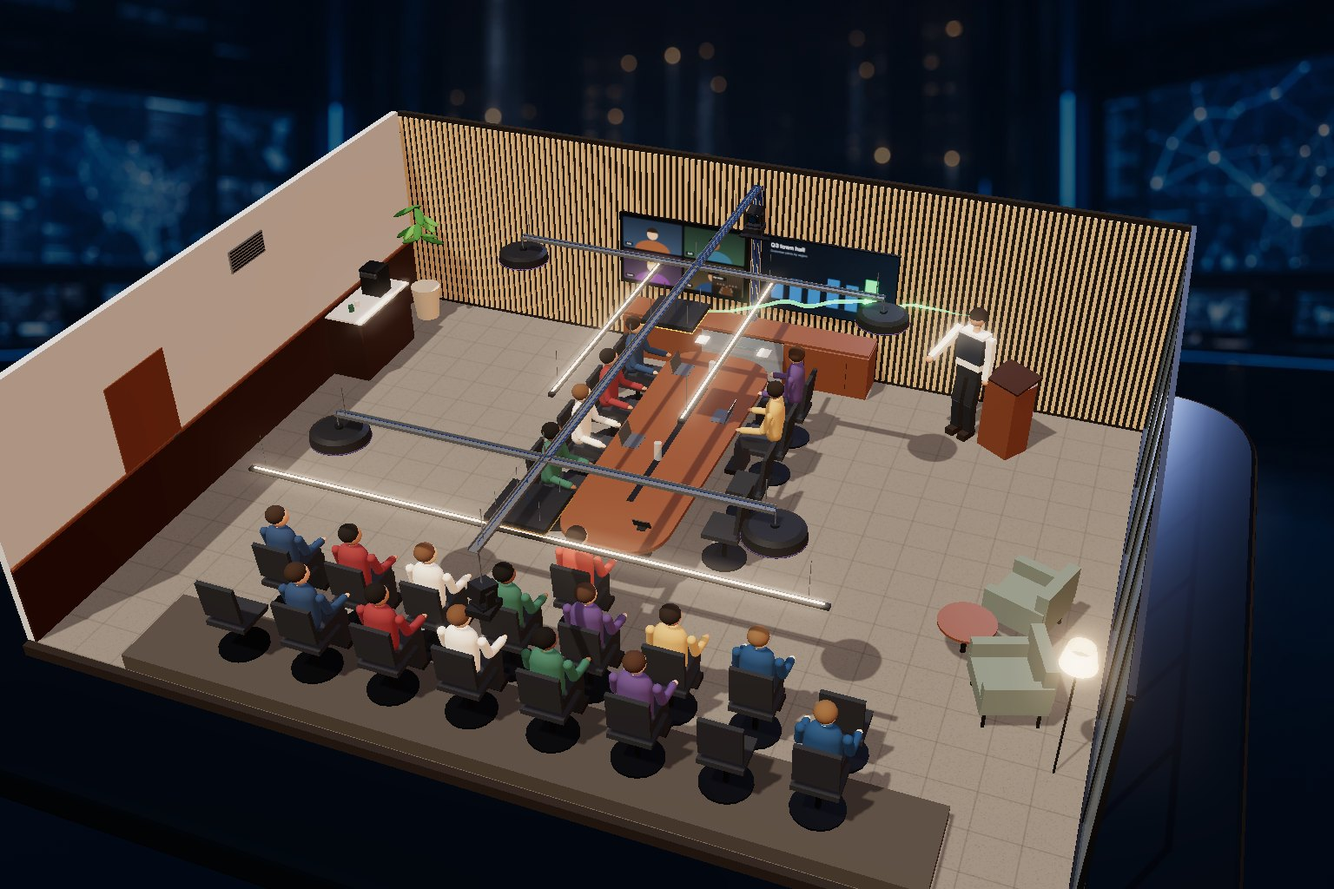
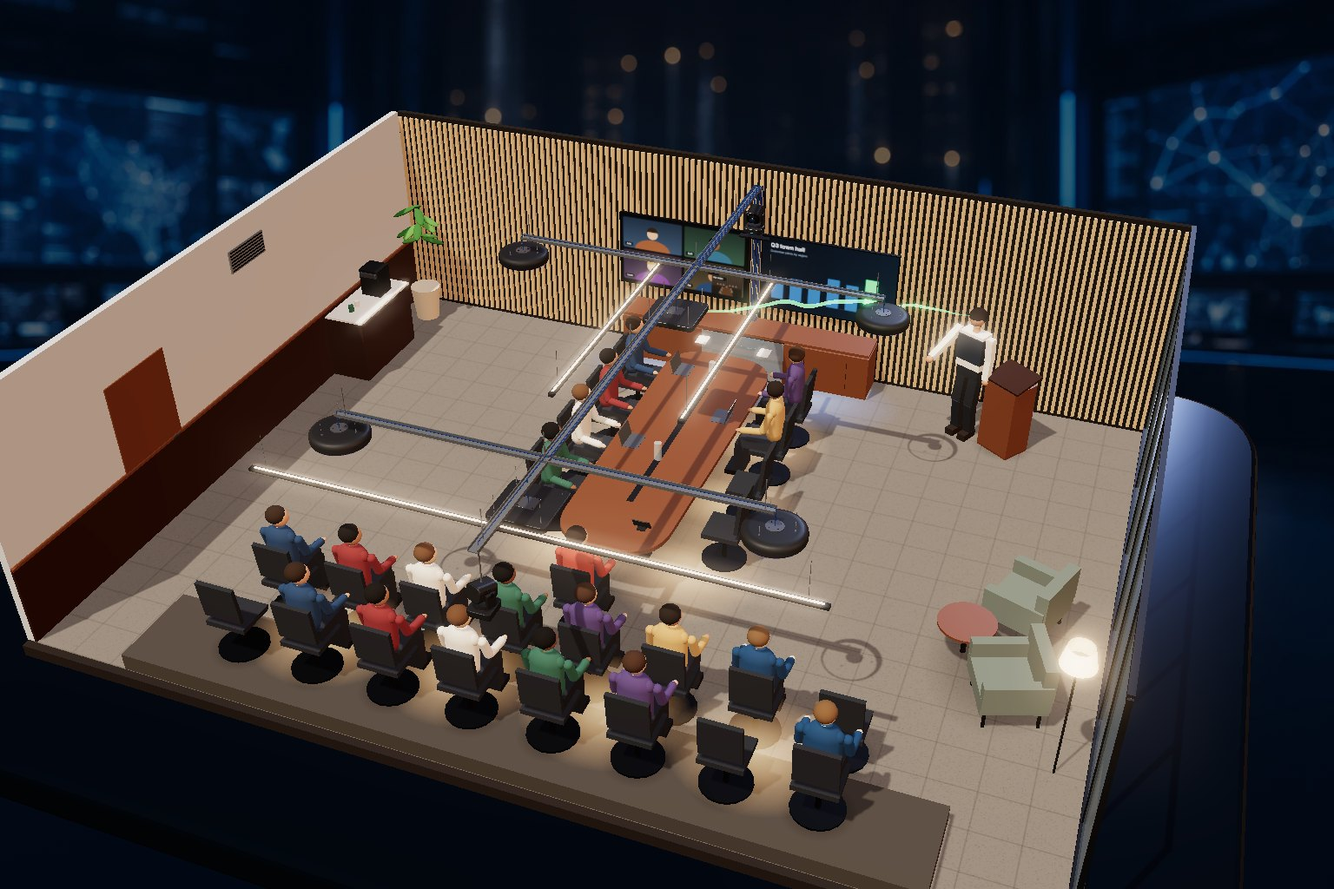
AI Lab meeting rooms: detailed device models and the no-amplifier story
Re-synced the renderer from Mentis123/adamrappaport 0dfa050 (sync --check
passes): detailed Cisco device models, floor light pools and contact
shadows, and the speaker exhibit's crossed-out amplifier rack. The hub tile
now says one cable each, no amplifier rack.

Claude-Session: https://claude.ai/code/session_01KTF4TLEyB4dRbRHCAgEm3H

diff --git a/public/map-assets/lab/rigs/cisco-devices.js b/public/map-assets/lab/rigs/cisco-devices.js
@@ -1,0 +1,147 @@
+// Detailed, procedural models of the Cisco room devices for the Meeting Room world (lab/rigs/cisco-room.js uses them).
+// Schematic but faithful to the data sheet sizes and finishes; no logos, no product renders, no binary assets.
+//   Ceiling Microphone Pro  420 x 420 x 48 mm, Carbon Black, bevelled shell, woven acoustic face, three ultrasonic ports,
+//                           a status light bar, VESA plate and a four-wire hanging kit.
+//   Ceiling Speaker Pro     420 mm wide, 88.2 mm high, a turned (lathe) body, hex-perforated grille over a coaxial driver,
+//                           a light ring, VESA bracket and hanging wires. Powered and fed by one PoE+ cable.
+//   Room Vision PTZ         165 W x 196 H x 176 D mm: rounded base with turntable, yoke, rounded head with a glass front,
+//                           a stepped lens barrel and front element, vents and a status light.
+//   rack unit               Room Kit Pro G2 / PoE switch: vented front, port lights, plugged patch leads at the rear.
+// Every builder works in METRES in its own group and returns the interface cisco-room.js expects.
+const rnd=(i,s=0)=>{const x=Math.sin(i*127.1+s*311.7+.5)*43758.5453;return x-Math.floor(x);};
+
+export function createDeviceKit(k){
+  const {THREE,mat,track}=k;
+  const add=(parent,geo,m,x=0,y=0,z=0)=>{const o=k.mesh(track(geo),m,x,y,z);parent.add(o);return o;};
+  const canvas=(w,h,draw)=>{const c=document.createElement('canvas');c.width=w;c.height=h;draw(c.getContext('2d'),w,h);return c;};
+  const tex=(c,{srgb=true,repeat=null}={})=>{const t=track(new THREE.CanvasTexture(c));if(srgb)t.colorSpace=THREE.SRGBColorSpace;t.anisotropy=8;if(repeat){t.wrapS=t.wrapT=THREE.RepeatWrapping;t.repeat.set(...repeat);}return t;};
+  function roundedShape(w,d,r){const s=new THREE.Shape(),x=w/2,y=d/2;s.moveTo(-x+r,-y);s.lineTo(x-r,-y);s.quadraticCurveTo(x,-y,x,-y+r);s.lineTo(x,y-r);s.quadraticCurveTo(x,y,x-r,y);s.lineTo(-x+r,y);s.quadraticCurveTo(-x,y,-x,y-r);s.lineTo(-x,-y+r);s.quadraticCurveTo(-x,-y,-x+r,-y);return s;}
+  // A rounded slab, depth along +y, centred on the origin.
+  function slab(w,d,r,h,bevel=.004,seg=8){const g=new THREE.ExtrudeGeometry(roundedShape(w-2*bevel,d-2*bevel,Math.max(.001,r-bevel)),{depth:Math.max(.0005,h-2*bevel),bevelEnabled:true,bevelThickness:bevel,bevelSize:bevel,bevelSegments:3,curveSegments:seg});g.rotateX(-Math.PI/2);g.translate(0,-(h-2*bevel)/2,0);return g;}
+  // A rounded block facing +z (rounded in the xy profile), depth along z, centred.
+  function block(w,h,dz,r,bevel=.006){const g=new THREE.ExtrudeGeometry(roundedShape(w-2*bevel,h-2*bevel,Math.max(.001,r-bevel)),{depth:Math.max(.0005,dz-2*bevel),bevelEnabled:true,bevelThickness:bevel,bevelSize:bevel,bevelSegments:4,curveSegments:10});g.translate(0,0,-(dz-2*bevel)/2);return g;}
+
+  // Planar 0..1 UVs for a flat shape or disc (ShapeGeometry and CircleGeometry give metre-space UVs otherwise).
+  function planarUV(geo,w,d){const p=geo.attributes.position,uv=geo.attributes.uv;for(let i=0;i<p.count;i++)uv.setXY(i,p.getX(i)/w+.5,p.getY(i)/d+.5);uv.needsUpdate=true;return geo;}
+  // ---- finishes ----
+  const carbon=new THREE.MeshPhysicalMaterial({color:0x232528,roughness:.42,metalness:.12,clearcoat:.35,clearcoatRoughness:.4});track(carbon);
+  const carbonDeep=mat(0x16171a,{roughness:.5,metalness:.2});
+  const satinSteel=mat(0x9aa2a9,{metalness:.85,roughness:.28});
+  const wire=mat(0xb8bec4,{metalness:.9,roughness:.25});
+  const glassBlack=new THREE.MeshPhysicalMaterial({color:0x07090c,roughness:.06,metalness:.3,clearcoat:1,clearcoatRoughness:.05});track(glassBlack);
+  const lensGlass=new THREE.MeshPhysicalMaterial({color:0x0b1622,roughness:.02,metalness:.6,clearcoat:1,emissive:0x0b2a44,emissiveIntensity:.5});track(lensGlass);
+  const ringMetal=mat(0x2c2f34,{metalness:.7,roughness:.35});
+  const ledMat=hex=>mat(0x1c2024,{emissive:hex,emissiveIntensity:.12,roughness:.35});
+
+  // Woven acoustic fabric with fine perforation; the same canvas drives a bump map so it catches light.
+  const fabricC=canvas(512,512,(g,w,h)=>{g.fillStyle='#5b5f66';g.fillRect(0,0,w,h);
+    for(let y=0;y<h;y+=4){g.fillStyle=y%8?'rgba(0,0,0,.18)':'rgba(255,255,255,.05)';g.fillRect(0,y,w,2);}
+    for(let x=0;x<w;x+=4){g.fillStyle=x%8?'rgba(0,0,0,.12)':'rgba(255,255,255,.04)';g.fillRect(x,0,2,h);}
+    for(let i=0;i<4000;i++){g.fillStyle=`rgba(${rnd(i)>.5?255:0},${rnd(i)>.5?255:0},${rnd(i)>.5?255:0},.03)`;g.fillRect(rnd(i,1)*w,rnd(i,2)*h,2,2);}});
+  const fabricMap=tex(fabricC,{repeat:[3,3]}),fabricBump=tex(fabricC,{srgb:false,repeat:[3,3]});
+  const fabric=mat(0xffffff,{map:fabricMap,bumpMap:fabricBump,bumpScale:.6,roughness:.95,emissive:0x1a1c20,emissiveIntensity:1});
+  // Hex-perforated metal grille.
+  const hexC=canvas(512,512,(g,w,h)=>{g.fillStyle='#62666c';g.fillRect(0,0,w,h);g.fillStyle='#0b0c0e';const s=10;
+    for(let row=0,y=0;y<h+s;y+=s*.87,row++)for(let x=(row%2)*s/2;x<w+s;x+=s){g.beginPath();for(let a=0;a<6;a++){const ang=Math.PI/6+a*Math.PI/3;g.lineTo(x+Math.cos(ang)*3.4,y+Math.sin(ang)*3.4);}g.closePath();g.fill();}});
+  const hexMap=tex(hexC,{repeat:[2,2]}),hexBump=tex(hexC,{srgb:false,repeat:[2,2]});
+  const grille=new THREE.MeshStandardMaterial({color:0xffffff,map:hexMap,bumpMap:hexBump,bumpScale:1,metalness:.45,roughness:.5,emissive:0x17181b,emissiveIntensity:1});track(grille);
+  // Vent slots for the racks.
+  const ventC=canvas(512,64,(g,w,h)=>{g.fillStyle='#1d1f23';g.fillRect(0,0,w,h);g.fillStyle='#07080a';for(let x=10;x<w-10;x+=9)g.fillRect(x,10,4,h-20);});
+  const vent=mat(0xffffff,{map:tex(ventC),roughness:.6,metalness:.4});
+
+  // ---------------------------------------------------------------- Ceiling Microphone Pro
+  function micPro(parent,pos,{DS=1,hangTo=null,accent=0xffb02e,name='ceiling-mic-pro'}={}){
+    const g=new THREE.Group();g.name=name;g.position.set(...pos);g.scale.setScalar(DS);parent.add(g);
+    add(g,slab(.42,.42,.04,.044,.008,10),carbon,0,.004,0);
+    // A shadow gap, then the fabric face set 2 mm into the shell.
+    add(g,slab(.396,.396,.03,.006,.001),carbonDeep,0,-.019,0).castShadow=false;
+    const face=add(g,planarUV(new THREE.ShapeGeometry(roundedShape(.388,.388,.028),8),.388,.388),fabric,0,-.0222,0);face.rotation.x=Math.PI/2;face.castShadow=false;
+    // Three ultrasonic ports (positioning and calibration), each a small ring with a dark centre.
+    for(const [dx,dz] of [[0,-.13],[.112,.065],[-.112,.065]]){const r=add(g,new THREE.TorusGeometry(.011,.0022,6,20),ringMetal,dx,-.0225,dz);r.rotation.x=Math.PI/2;r.castShadow=false;
+      const c=add(g,new THREE.CircleGeometry(.009,16),carbonDeep,dx,-.0226,dz);c.rotation.x=Math.PI/2;}
+    // Status light bar on the front edge and a faint perimeter glow line.
+    const lm=ledMat(accent);
+    const bar=add(g,slab(.07,.006,.003,.003,.0008),lm,0,-.0225,.17);bar.castShadow=false;
+    // VESA plate on top with four screws and the wire hanging kit.
+    add(g,slab(.12,.12,.01,.006,.001),satinSteel,0,.029,0);
+    for(const [sx,sz] of [[-1,-1],[1,-1],[-1,1],[1,1]])add(g,new THREE.CylinderGeometry(.005,.005,.004,10),carbonDeep,sx*.05,.033,sz*.05);
+    if(hangTo){const L=(hangTo-pos[1])/DS;for(const [sx,sz] of [[-1,-1],[1,-1],[-1,1],[1,1]]){const w0=add(g,new THREE.CylinderGeometry(.0012,.0012,L,4),wire,sx*.16,L/2,sz*.16);w0.castShadow=false;
+      add(g,new THREE.CylinderGeometry(.005,.005,.012,8),satinSteel,sx*.16,.03,sz*.16);}}
+    const anchor=new THREE.Object3D();g.add(anchor);const faceAnchor=new THREE.Object3D();faceAnchor.position.y=-.03;g.add(faceAnchor);
+    return{group:g,anchor,face:faceAnchor,ledMat:lm,led(a,t){lm.emissiveIntensity=.14+1.5*a*(.7+.3*Math.sin(t*5));}};
+  }
+
+  // ---------------------------------------------------------------- Ceiling Speaker Pro
+  function speakerPro(parent,pos,{DS=1,hangTo=null,accent=0xc08cff,name='ceiling-speaker-pro'}={}){
+    const g=new THREE.Group();g.name=name;g.position.set(...pos);g.scale.setScalar(DS);parent.add(g);
+    // Turned body: flat top, a soft shoulder, straight side, a rolled lip that frames the grille. 88 mm overall.
+    const prof=[[0,.044],[.15,.044],[.18,.041],[.198,.034],[.208,.022],[.21,.006],[.21,-.024],[.206,-.036],[.198,-.0425],[.19,-.044]].reverse().map(([x,y])=>new THREE.Vector2(x,y));   // bottom to top, so the faces wind outward
+    const body=add(g,new THREE.LatheGeometry(prof,72),carbon);void body;
+    // Hex grille, very slightly domed, with the coaxial driver's dark ring and dome showing through it.
+    const gr=add(g,planarUV(new THREE.CircleGeometry(.19,72),.38,.38),grille,0,-.0428,0);gr.rotation.x=Math.PI/2;gr.castShadow=false;
+    // The coaxial driver shows through as a darker ring and centre (drawn just inside the grille).
+    const driver=add(g,new THREE.RingGeometry(.07,.095,64),track(new THREE.MeshBasicMaterial({color:0x000000,transparent:true,opacity:.28,depthWrite:false})),0,-.0431,0);driver.rotation.x=Math.PI/2;driver.castShadow=false;
+    const tweeter=add(g,new THREE.CircleGeometry(.03,40),track(new THREE.MeshBasicMaterial({color:0x000000,transparent:true,opacity:.22,depthWrite:false})),0,-.0431,0);tweeter.rotation.x=Math.PI/2;tweeter.castShadow=false;
+    // Light ring in the lip.
+    const lm=ledMat(accent);const ring=add(g,new THREE.TorusGeometry(.2,.0035,6,72),lm,0,-.039,0);ring.rotation.x=Math.PI/2;ring.castShadow=false;
+    // VESA bracket and hanging wires.
+    add(g,new THREE.CylinderGeometry(.06,.06,.008,32),satinSteel,0,.049,0);
+    for(let i=0;i<4;i++){const a=i*Math.PI/2+Math.PI/4;add(g,new THREE.CylinderGeometry(.0045,.0045,.004,8),carbonDeep,Math.cos(a)*.042,.054,Math.sin(a)*.042);}
+    if(hangTo){const L=(hangTo-pos[1])/DS;for(let i=0;i<3;i++){const a=i*Math.PI*2/3;const w0=add(g,new THREE.CylinderGeometry(.0012,.0012,L,4),wire,Math.cos(a)*.13,L/2+.03,Math.sin(a)*.13);w0.castShadow=false;
+      add(g,new THREE.CylinderGeometry(.006,.006,.012,8),satinSteel,Math.cos(a)*.13,.046,Math.sin(a)*.13);}}
+    const anchor=new THREE.Object3D();g.add(anchor);const faceAnchor=new THREE.Object3D();faceAnchor.position.y=-.045;g.add(faceAnchor);
+    return{group:g,anchor,face:faceAnchor,ledMat:lm,led(a,t){lm.emissiveIntensity=.12+1.7*a*(.75+.25*Math.sin(t*6));}};
+  }
+
+  // ---------------------------------------------------------------- Room Vision PTZ
+  function ptz(parent,pos,{DS=1,ry=0,accent=0x19d3ff,name='room-vision-ptz'}={}){
+    const g=new THREE.Group();g.name=name;g.position.set(...pos);g.rotation.y=ry;g.scale.setScalar(DS);parent.add(g);
+    // Base: rounded block with a dark status window, a turntable ring on top.
+    add(g,slab(.165,.176,.03,.046,.006),carbon,0,.023,0);
+    add(g,new THREE.CylinderGeometry(.062,.066,.006,48),carbonDeep,0,.049,0);
+    const lm=ledMat(accent);add(g,slab(.03,.004,.002,.004,.0006),lm,0,.012,.088).castShadow=false;
+    // Yoke: a turned plinth and two rounded arms, all on the pan joint.
+    const yaw=new THREE.Group();yaw.position.y=.052;g.add(yaw);
+    add(yaw,new THREE.CylinderGeometry(.058,.06,.016,48),carbon,0,.008,0);
+    for(const s of [-1,1]){const arm=add(yaw,block(.02,.11,.07,.01,.004),carbon,s*.074,.066,0);void arm;
+      add(yaw,new THREE.CylinderGeometry(.016,.016,.006,24),ringMetal,s*.0845,.108,0).rotation.z=Math.PI/2;}
+    // Head on the tilt joint (pivot 0.16 above the base, as aimAt expects).
+    const head=new THREE.Group();head.position.y=.108;yaw.add(head);
+    add(head,block(.128,.112,.15,.04,.008),carbon,0,0,-.004);
+    const front=add(head,planarUV(new THREE.ShapeGeometry(roundedShape(.112,.096,.034),10),.112,.096),glassBlack,0,0,.0715);front.castShadow=false;
+    // Side vents.
+    for(const s of [-1,1])for(let i=0;i<5;i++){const v=add(head,new THREE.BoxGeometry(.002,.006,.05),carbonDeep,s*.0645,-.03+i*.015,-.02);v.castShadow=false;}
+    // Lens: stepped barrel rings, a front element that catches the light, a dark iris.
+    for(const [r,z,d] of [[.042,.074,.006],[.036,.079,.006],[.031,.083,.004]]){const b=add(head,new THREE.CylinderGeometry(r,r,d,40),ringMetal,0,-.004,z);b.rotation.x=Math.PI/2;}
+    const elem=new THREE.SphereGeometry(.03,40,16,0,Math.PI*2,0,Math.PI*.32);elem.rotateX(Math.PI/2);
+    const le=add(head,elem,lensGlass,0,-.004,.0765);le.castShadow=false;
+    const iris=add(head,new THREE.CircleGeometry(.011,24),mat(0x020304,{roughness:.2}),0,-.004,.0855);iris.castShadow=false;
+    // A small sensor window and a status light on the front.
+    add(head,new THREE.CircleGeometry(.004,12),lensGlass,.042,.035,.0718);
+    add(head,slab(.012,.004,.002,.004,.0006),lm,-.042,.036,.0725).rotation.x=Math.PI/2;
+    const mount=new THREE.Object3D();mount.position.set(0,-.004,.092);head.add(mount);
+    const anchor=new THREE.Object3D();anchor.position.y=.1;g.add(anchor);
+    return{group:g,anchor,head,mount,yaw,ledMat:lm,pan(a){yaw.rotation.y=a;},tilt(a){head.rotation.x=a;},led(a,t){lm.emissiveIntensity=.16+1.5*a*(.7+.3*Math.sin(t*4));}};
+  }
+
+  // ---------------------------------------------------------------- rack unit (Room Kit Pro G2, PoE switch)
+  function rackUnit(parent,pos,{w=.44,label='',ports=8,accent=0x5dff9a,name='rack-unit'}={}){
+    const g=new THREE.Group();g.name=name;g.position.set(...pos);parent.add(g);
+    add(g,slab(w,.3,.004,.044,.002,4),carbon,0,.022,0);
+    const ventFace=add(g,new THREE.PlaneGeometry(w*.5,.026),vent,-w*.18,.022,.1505);ventFace.castShadow=false;
+    const lab=canvas(512,64,(c,cw,ch)=>{c.fillStyle='#0d1014';c.fillRect(0,0,cw,ch);c.fillStyle='#e8f0f6';c.font='700 34px "Segoe UI",Arial,sans-serif';c.textBaseline='middle';c.fillText(label,16,ch/2+2);});
+    const plate=add(g,new THREE.PlaneGeometry(w*.28,w*.28/8),track(new THREE.MeshBasicMaterial({map:tex(lab),toneMapped:false})),w*.25,.03,.1505);plate.castShadow=false;
+    const leds=[];
+    for(let i=0;i<ports;i++){const x=w*.08+i*(w*.38/ports);
+      const port=add(g,new THREE.BoxGeometry(.012,.01,.004),carbonDeep,x,.013,.1505);port.castShadow=false;
+      const m=mat(0x1f3326,{emissive:accent,emissiveIntensity:.2,roughness:.4});add(g,new THREE.BoxGeometry(.004,.003,.002),m,x+.005,.021,.152).castShadow=false;leds.push(m);
+      // Patch lead plugged in at the back, curving down out of sight.
+      const curve=new THREE.CatmullRomCurve3([new THREE.Vector3(x-w*.2,.022,-.15),new THREE.Vector3(x-w*.2,.022,-.19),new THREE.Vector3(x-w*.2+.01*Math.sin(i),-.02,-.22)]);
+      add(g,new THREE.TubeGeometry(curve,10,.0025,5,false),mat(0x1d3a66,{roughness:.6}));}
+    const status=mat(0xbfffe0,{emissive:accent,emissiveIntensity:.6});add(g,new THREE.CylinderGeometry(.004,.004,.003,12),status,-w/2+.02,.03,.1515).rotation.x=Math.PI/2;
+    const anchor=new THREE.Object3D();anchor.position.set(0,.03,.1);g.add(anchor);
+    return{group:g,anchor,leds,status,led(a,t){status.emissiveIntensity=.4+.8*a*(.6+.4*Math.sin(t*7));leds.forEach((m,i)=>{m.emissiveIntensity=.15+.6*a*Math.max(0,Math.sin(t*9+i*1.7));});}};
+  }
+
+  return{micPro,speakerPro,ptz,rackUnit,materials:{carbon,carbonDeep,satinSteel,grille,fabric}};
+}

diff --git a/public/map-assets/lab/rigs/cisco-room.js b/public/map-assets/lab/rigs/cisco-room.js
@@ -39,6 +39,7 @@
 import {createActors} from '../exhibit-actors.js';
 import {createFlowMaterial} from '../../flow-effects.js';
 import {seatedPerson} from './laptop.js';
+import {createDeviceKit} from './cisco-devices.js';
 
 export const ACCENT={camera:0x19d3ff,mic:0xffb02e,speaker:0xc08cff,engine:0x5dff9a};
 export const CSS={camera:'#19d3ff',mic:'#ffb02e',speaker:'#c08cff',engine:'#5dff9a'};
@@ -95,6 +96,8 @@ function createCrowd(k,{parent,seats}){
     shins:{geo:track(new THREE.BoxGeometry(.32,.44,.12)),mat:white(),n:people.length},
     shoes:{geo:track(new THREE.BoxGeometry(.32,.07,.2)),mat:mat(0x1a1a1c,{roughness:.6}),n:people.length},
     torso:{geo:cap(.16,.3),mat:white(),n:people.length},
+    shoulders:{geo:cap(.075,.24),mat:white(),n:people.length},
+    collar:{geo:track(new THREE.CylinderGeometry(.06,.075,.05,12)),mat:white({roughness:.7}),n:people.length},
     upper:{geo:cap(.05,.22),mat:white(),n:people.length*2},
     fore:{geo:cap(.045,.22),mat:white(),n:people.length*2},
     hand:{geo:track(new THREE.SphereGeometry(.045,8,6)),mat:white({roughness:.75}),n:people.length*2},
@@ -107,7 +110,7 @@ function createCrowd(k,{parent,seats}){
   const C=new THREE.Color();
   people.forEach((s,i)=>{const [shirt,pants,hair,skin]=s.outfit;
     for(const id of ['thighs','shins'])mesh[id].setColorAt(i,C.setHex(pants));
-    mesh.torso.setColorAt(i,C.setHex(shirt));for(const j of [0,1])mesh.upper.setColorAt(i*2+j,C.setHex(shirt)),mesh.fore.setColorAt(i*2+j,C.setHex(shirt)),mesh.hand.setColorAt(i*2+j,C.setHex(skin));
+    mesh.torso.setColorAt(i,C.setHex(shirt));mesh.shoulders.setColorAt(i,C.setHex(shirt));mesh.collar.setColorAt(i,C.setHex(i%3?0xf2efe8:shirt).multiplyScalar(i%3?1:.8));for(const j of [0,1])mesh.upper.setColorAt(i*2+j,C.setHex(shirt)),mesh.fore.setColorAt(i*2+j,C.setHex(shirt)),mesh.hand.setColorAt(i*2+j,C.setHex(skin));
     mesh.neck.setColorAt(i,C.setHex(skin));mesh.head.setColorAt(i,C.setHex(skin));mesh.hair.setColorAt(i,C.setHex(hair));});
   for(const m of Object.values(mesh))if(m.instanceColor)m.instanceColor.needsUpdate=true;
   const M=(x=0,y=0,z=0,rx=0,ry=0,rz=0,sx=1,sy=1,sz=1)=>new THREE.Matrix4().compose(new THREE.Vector3(x,y,z),new THREE.Quaternion().setFromEuler(new THREE.Euler(rx,ry,rz)),new THREE.Vector3(sx,sy,sz));
@@ -123,6 +126,8 @@ function createCrowd(k,{parent,seats}){
     mesh.thighs.setMatrixAt(i,b.clone().multiply(M(0,.54,.15)));mesh.shins.setMatrixAt(i,b.clone().multiply(M(0,.27,.37)));mesh.shoes.setMatrixAt(i,b.clone().multiply(M(0,.035,.45)));
     const hip=b.clone().multiply(M(0,.56,-.05,st.lean));
     mesh.torso.setMatrixAt(i,hip.clone().multiply(M(0,.31,0,0,0,0,1.15,1,.72)));
+    mesh.shoulders.setMatrixAt(i,hip.clone().multiply(M(0,.49,-.01,0,0,Math.PI/2,1,1,.8)));
+    mesh.collar.setMatrixAt(i,hip.clone().multiply(M(0,.56,.0)));
     for(const [j,sd] of [[0,-1],[1,1]]){
       const up=sd<0?st.raise:0;
       const sh=hip.clone().multiply(M(sd*.215,.5,0,-.35-up*2.6,0,sd*(.08+up*.1)));
@@ -239,19 +244,9 @@ export function buildMeetingRoom(k,{parent=k.root,x=0,y=0,z=0,scale=1,hero=[],wa
   const glassFront=box(1.2,C_.h-.08,.008,M.glass,0,(C_.h-.04)/2,cz+C_.d/2-.004,credenza);glassFront.castShadow=false;glassFront.userData.sensorKeep=true;
   // Codec (Room Kit Pro G2) and switch: dark 1U boxes with port lights. Port materials are the LEDs the cables light.
   const devices={};
-  function rackBox(name,w,y,ports,accentHex){
-    const g=new THREE.Group();g.name=name;g.position.set(0,y,cz+.02);credenza.add(g);
-    box(w,.044,.3,M.device,0,.022,0,g);box(w,.044,.006,M.black,0,.022,.153,g);
-    const leds=[];for(let i=0;i<ports;i++){const m=mat(0x1f3326,{emissive:accentHex,emissiveIntensity:.15,roughness:.4});const p=box(.016,.012,.006,m,-w/2+.06+i*.026,.03,.157,g);p.castShadow=false;leds.push(m);}
-    const status=mat(0xbfffe0,{emissive:accentHex,emissiveIntensity:.6});box(.012,.012,.006,status,w/2-.03,.022,.157,g).castShadow=false;
-    const lab=canvasTex(k,512,64,(c,w,h)=>{c.fillStyle='#0d1014';c.fillRect(0,0,w,h);c.fillStyle='#e8f0f6';font(c,700,34);c.textBaseline='middle';c.fillText(name==='room-kit-pro-g2'?'ROOM KIT PRO G2':'POE SWITCH',16,h/2+2);});
-    const plateM=add(new THREE.PlaneGeometry(w*.55,w*.55/8),track(new THREE.MeshBasicMaterial({map:lab.texture,toneMapped:false})),w*.12,.022,.1545,g);plateM.castShadow=false;
-    const anchor=new THREE.Object3D();anchor.position.set(0,.03,.1);g.add(anchor);
-    return{group:g,anchor,leds,status,
-      led(a,t){status.emissiveIntensity=.4+.8*a*(.6+.4*Math.sin(t*7));}};
-  }
-  devices.codec=rackBox('room-kit-pro-g2',.44,.42,8,ACCENT.engine);
-  devices.poe=rackBox('poe-switch',.33,.05,8,ACCENT.engine);
+  const DK=createDeviceKit(k);
+  devices.codec=DK.rackUnit(credenza,[0,.42,cz+.02],{w:.44,label:'ROOM KIT PRO G2',ports:8,accent:ACCENT.engine,name:'room-kit-pro-g2'});
+  devices.poe=DK.rackUnit(credenza,[0,.05,cz+.02],{w:.33,label:'POE SWITCH',ports:8,accent:ACCENT.engine,name:'poe-switch'});
   // A thin cable bundle comes down the wall between the displays into the credenza (drawn by the cables below).
 
   // ---- table and its Room Navigator ----
@@ -334,51 +329,12 @@ export function buildMeetingRoom(k,{parent=k.root,x=0,y=0,z=0,scale=1,hero=[],wa
   // ---- the devices ----
   function ledMat(hex){return mat(0x202428,{emissive:hex,emissiveIntensity:.1,roughness:.4});}
   function drop(x0,z0,from,to){add(new THREE.CylinderGeometry(.008,.008,Math.abs(from-to),6),M.steel,x0,(from+to)/2,z0,trayG).castShadow=false;}
-  // Ceiling Microphone Pro: 420 x 420 x 48 mm, a perforated face, three small ultrasonic ports, a status light.
-  const perf=canvasTex(k,256,256,(g,w,h)=>{g.fillStyle='#34373c';g.fillRect(0,0,w,h);g.fillStyle='rgba(10,10,12,.55)';for(let i=6;i<w;i+=9)for(let j=6;j<h;j+=9){g.beginPath();g.arc(i,j,1.6,0,Math.PI*2);g.fill();}}).texture;
-  function micPro(name,pos){
-    const g=new THREE.Group();g.name=name;g.position.set(...pos);g.scale.setScalar(DS);group.add(g);
-    const body=box(.42,.048,.42,M.device,0,0,0,g);void body;
-    const face=add(new THREE.PlaneGeometry(.39,.39),mat(0xffffff,{map:perf,roughness:.9}),0,-.0245,0,g);face.rotation.x=Math.PI/2;face.castShadow=false;
-    for(const [dx,dz] of [[0,-.12],[.1,.07],[-.1,.07]])add(new THREE.CylinderGeometry(.012,.012,.003,10),M.black,dx,-.026,dz,g).castShadow=false;
-    const lm=ledMat(ACCENT.mic);for(const [ex,ez,ew,ed] of [[0,.211,.42,.006],[0,-.211,.42,.006],[.211,0,.006,.42],[-.211,0,.006,.42]])box(ew,.008,ed,lm,ex,-.02,ez,g).castShadow=false;
-    for(const [dx,dz] of [[-.15,-.15],[.15,-.15],[-.15,.15],[.15,.15]])add(new THREE.CylinderGeometry(.002,.002,(TY-.03-pos[1])/DS,4),M.steel,dx,(TY-.03-pos[1])/DS/2,dz,g).castShadow=false;
-    const anchor=new THREE.Object3D();g.add(anchor);const faceAnchor=new THREE.Object3D();faceAnchor.position.y=-.03;g.add(faceAnchor);
-    return{group:g,anchor,face:faceAnchor,ledMat:lm,led(a,t){lm.emissiveIntensity=.12+1.4*a*(.7+.3*Math.sin(t*5));}};
-  }
-  devices.micFront=micPro('ceiling-mic-pro-front',P.micFront);devices.micRear=micPro('ceiling-mic-pro-rear',P.micRear);
-  // Ceiling Speaker Pro: 420 mm wide, 88 mm high, round coaxial body, perforated grille, light ring; hung level.
-  const grille=canvasTex(k,256,256,(g,w,h)=>{g.fillStyle='#2e3135';g.fillRect(0,0,w,h);g.fillStyle='rgba(8,8,10,.6)';for(let r=12;r<w/2;r+=10)for(let a=0;a<Math.PI*2;a+=8/r){g.beginPath();g.arc(w/2+Math.cos(a)*r,h/2+Math.sin(a)*r,1.6,0,Math.PI*2);g.fill();}}).texture;
-  function speakerPro(name,pos){
-    const g=new THREE.Group();g.name=name;g.position.set(...pos);g.scale.setScalar(DS);group.add(g);
-    add(new THREE.CylinderGeometry(.2,.21,.07,40),M.device,0,0,0,g);
-    add(new THREE.CylinderGeometry(.16,.2,.018,40),M.device,0,.044,0,g);
-    const face=add(new THREE.CircleGeometry(.195,40),mat(0xffffff,{map:grille,roughness:.85}),0,-.0355,0,g);face.rotation.x=Math.PI/2;face.castShadow=false;
-    const lm=ledMat(ACCENT.speaker);const ring=add(new THREE.TorusGeometry(.205,.006,6,48),lm,0,-.03,0,g);ring.rotation.x=Math.PI/2;ring.castShadow=false;
-    add(new THREE.CylinderGeometry(.03,.03,.02,12),M.black,0,.06,0,g);
-    const anchor=new THREE.Object3D();g.add(anchor);const faceAnchor=new THREE.Object3D();faceAnchor.position.y=-.04;g.add(faceAnchor);
-    return{group:g,anchor,face:faceAnchor,ledMat:lm,led(a,t){lm.emissiveIntensity=.1+1.6*a*(.75+.25*Math.sin(t*6));}};
-  }
-  devices.spk=P.spk.map((p,i)=>speakerPro('ceiling-speaker-pro-'+['fl','fr','rl','rr'][i],p));
-  for(const d of devices.spk){const p=d.group.position;drop(p.x,p.z,p.y+.07*DS,TY-.03);}
-  // Room Vision PTZ: base, a yoke that pans, a head that tilts, a glass lens and a light. Faces +z by default.
-  function ptz(name,pos,{ry=0,hang=false}={}){
-    const g=new THREE.Group();g.name=name;g.position.set(...pos);g.rotation.y=ry;g.scale.setScalar(DS);group.add(g);
-    const baseY=hang?.0:0;
-    box(.165,.05,.176,M.device,0,baseY+.025,0,g);
-    const yaw=new THREE.Group();yaw.position.y=.05;g.add(yaw);
-    box(.13,.02,.12,M.device,0,.01,0,yaw);for(const s of [-1,1])box(.018,.11,.06,M.device,s*.07,.07,0,yaw);
-    const head=new THREE.Group();head.position.y=.11;yaw.add(head);
-    add(new THREE.BoxGeometry(.12,.1,.14),M.device,0,0,0,head);
-    add(new THREE.CylinderGeometry(.045,.045,.02,24),M.black,0,0,.075,head).rotation.x=Math.PI/2;
-    const lens=add(new THREE.CylinderGeometry(.032,.032,.006,24),mat(0x0b1b2a,{metalness:.9,roughness:.05,emissive:0x0a3550,emissiveIntensity:.4}),0,0,.086,head);lens.rotation.x=Math.PI/2;lens.castShadow=false;
-    const lm=ledMat(ACCENT.camera);box(.012,.008,.004,lm,.042,.036,.071,head).castShadow=false;
-    const mount=new THREE.Object3D();mount.position.set(0,0,.09);head.add(mount);
-    const anchor=new THREE.Object3D();anchor.position.y=.1;g.add(anchor);
-    return{group:g,anchor,head,mount,yaw,ledMat:lm,pan(a){yaw.rotation.y=a;},tilt(a){head.rotation.x=a;},led(a,t){lm.emissiveIntensity=.15+1.4*a*(.7+.3*Math.sin(t*4));}};
-  }
-  devices.camFront=ptz('room-vision-ptz-front',P.camFront);
-  devices.camRear=ptz('room-vision-ptz-rear',[P.camRear[0],P.camRear[1],P.camRear[2]],{ry:Math.PI});
+  // The three Cisco devices, detailed models from lab/rigs/cisco-devices.js (data sheet sizes, Carbon Black).
+  devices.micFront=DK.micPro(group,P.micFront,{DS,hangTo:TY-.03,accent:ACCENT.mic,name:'ceiling-mic-pro-front'});
+  devices.micRear=DK.micPro(group,P.micRear,{DS,hangTo:TY-.03,accent:ACCENT.mic,name:'ceiling-mic-pro-rear'});
+  devices.spk=P.spk.map((p,i)=>DK.speakerPro(group,p,{DS,hangTo:TY-.03,accent:ACCENT.speaker,name:'ceiling-speaker-pro-'+['fl','fr','rl','rr'][i]}));
+  devices.camFront=DK.ptz(group,P.camFront,{DS,accent:ACCENT.camera,name:'room-vision-ptz-front'});
+  devices.camRear=DK.ptz(group,P.camRear,{DS,ry:Math.PI,accent:ACCENT.camera,name:'room-vision-ptz-rear'});
   box(.22,.02,.22,M.black,P.camRear[0],P.camRear[1]-.01,P.camRear[2],trayG);drop(P.camRear[0],P.camRear[2],P.camRear[1],TY-.03);
   devices.camFront.tilt(.22);devices.camRear.tilt(.2);
 
@@ -446,6 +402,19 @@ export function buildMeetingRoom(k,{parent=k.root,x=0,y=0,z=0,scale=1,hero=[],wa
     },JSON.stringify([title,step]));
   }
   farEnd(displays.left);content(displays.right);
+
+  // ---- light and shade on the floor: warm pools under the pendants, a cool spill from the displays, contact shadows ----
+  {const radial=(stops)=>{const c=document.createElement('canvas');c.width=c.height=128;const g=c.getContext('2d'),gr=g.createRadialGradient(64,64,4,64,64,64);stops.forEach(([o,col])=>gr.addColorStop(o,col));g.fillStyle=gr;g.fillRect(0,0,128,128);const t=track(new THREE.CanvasTexture(c));t.colorSpace=THREE.SRGBColorSpace;return t;};
+    const poolM=track(new THREE.MeshBasicMaterial({map:radial([[0,'rgba(255,214,160,.55)'],[.55,'rgba(255,200,140,.18)'],[1,'rgba(255,200,140,0)']]),transparent:true,depthWrite:false,blending:THREE.AdditiveBlending,toneMapped:false}));
+    const spillM=track(new THREE.MeshBasicMaterial({map:radial([[0,'rgba(140,190,255,.4)'],[.6,'rgba(120,170,255,.12)'],[1,'rgba(120,170,255,0)']]),transparent:true,depthWrite:false,blending:THREE.AdditiveBlending,toneMapped:false}));
+    const shadeM=track(new THREE.MeshBasicMaterial({map:radial([[0,'rgba(20,14,10,.55)'],[.6,'rgba(20,14,10,.25)'],[1,'rgba(20,14,10,0)']]),transparent:true,depthWrite:false,polygonOffset:true,polygonOffsetFactor:-2,polygonOffsetUnits:-2}));
+    const decal=(m,x,z,w,d,y=.003,order=-1)=>{const o=add(new THREE.PlaneGeometry(w,d),m,x,y,z);o.rotation.x=-Math.PI/2;o.castShadow=o.receiveShadow=false;o.renderOrder=order;o.userData.sensorKeep=true;o.userData.noFit=true;return o;};
+    for(const pz of [-2.2,-.8,.6])for(const px of [-.75,.75])decal(poolM,px,pz,1.9,1.9,.004,1);
+    for(const px of [-2.4,-.8,.8,2.4])decal(poolM,px,3.2,1.8,1.6,P.riser.h+.004,1);
+    for(const px of D_.x)decal(spillM,px,-3.5,2.6,1.6,.005,1);
+    decal(shadeM,P.table.x,P.table.z,1.9,5.0);decal(shadeM,0,P.credenza.z+.05,4.0,.9);
+    for(const q of seats)decal(shadeM,q.x,q.z,.75,.75,q.y+.002);
+    decal(shadeM,P.lectern[0],P.lectern[1],.8,.7);decal(shadeM,4.4,.85,1.6,2.4);}
 
   // ---- walls that give way to the camera ----
   const tmpV=new THREE.Vector3();

diff --git a/public/map-assets/lab/kits/meeting.ceiling-sound.js b/public/map-assets/lab/kits/meeting.ceiling-sound.js
@@ -7,12 +7,17 @@
 // The remote voice comes from the left pair, where her picture is (spatial playback of remote voices).
 // Variation "in-room voice": the presenter speaks in the room and only the rear pair lifts the voice for the back rows
 // (datasheet: local presenter reinforcement). Wavefronts are slowed right down to be seen. Pure function of t and ctx.
+// No amplifier: at the start of the Change chapter the old way appears as a red outline (an amplifier rack in the corner
+// and a speaker cable to every speaker), is crossed out, and dissolves as each speaker lights on its own PoE+ cable
+// (data sheet: single-cable IP, PoE+ powered, built-in DSP; the owner's point: no amplifier for multiple speakers).
 import {stageRoom,seatedFigure,speechRibbon,beamFan,shells,tagSprite,ACCENT,CSS,P} from '../rigs/cisco-room.js';
 
 const smooth=(a,b,x)=>{const u=Math.min(1,Math.max(0,(x-a)/(b-a)));return u*u*(3-2*u);};
 const wrap=a=>Math.atan2(Math.sin(a),Math.cos(a));
 const C=2.4,EAR=[0,1.45,3.68],PERIOD=.9;                       // drawn speed of sound (slowed), the back-row target
-const ON=[4.6,5.0,5.4,5.8],LIVE=6.6;                           // speakers come online in turn; the voice moves to them
+const ON=[6.3,6.7,7.1,7.5],LIVE=8.0;                           // speakers come online in turn; the voice moves to them
+const GHOST=[4.3,4.9,6.0,7.0];                                 // the amplifier rack: fade in, crossed out, dissolve start, gone
+const RACK=[3.7,0,-1.0];
 const T={leanEnd:6.2,aiArrive:13.2,cable:16,cableEnd:19};
 const DISPLAY_SRC=[P.displays.x[0],P.displays.y,P.displays.z+.12];
 
@@ -40,7 +45,25 @@ export function buildKit(k){
   const zm=new THREE.Mesh(k.track(new THREE.BoxGeometry(1,1,1)),k.mat(0xffffff));zm.visible=false;zone.add(zm);
   zone.position.set(0,P.riser.h+.8,3.68);zone.scale.set(2.9,1.3,.8);
 
-  const spkTag=tagSprite(k,['CEILING SPEAKER PRO','Audio over IP · one cable each'],CSS.speaker,1.8,{parent:G,x:P.spk[0][0]+.3,y:3.35,z:P.spk[0][2]+.2});
+  const spkTag=tagSprite(k,['CEILING SPEAKER PRO','Power and audio on one cable · PoE+'],CSS.speaker,1.9,{parent:G,x:P.spk[0][0]+.3,y:3.35,z:P.spk[0][2]+.2});
+  const ampTag=tagSprite(k,['NO AMPLIFIER RACK','Each speaker is powered by its own cable'],'#ff6b5e',2.2,{parent:G,x:RACK[0]-.7,y:2.05,z:RACK[2]+.3});
+
+  // ---- the old way, as a red outline: an equipment rack with three amplifiers and a speaker run to every speaker ----
+  const ghost=new THREE.Group();ghost.name='amplifier-rack-ghost';G.add(ghost);
+  const ghostFill=k.track(new THREE.MeshBasicMaterial({color:0xff4b3e,transparent:true,opacity:0,depthWrite:false,blending:THREE.AdditiveBlending,toneMapped:false}));
+  const ghostLine=k.track(new THREE.LineBasicMaterial({color:0xff7a6e,transparent:true,opacity:0,depthWrite:false,toneMapped:false}));
+  const gbox=(w,h,d,x,y,z)=>{const geo=k.track(new THREE.BoxGeometry(w,h,d));const m=new THREE.Mesh(geo,ghostFill);m.position.set(x,y,z);m.userData.sensorKeep=true;m.userData.noFit=true;ghost.add(m);
+    const e=new THREE.LineSegments(k.track(new THREE.EdgesGeometry(geo)),ghostLine);e.position.copy(m.position);e.userData.noFit=true;ghost.add(e);return m;};
+  gbox(.62,1.25,.62,RACK[0],.625,RACK[2]);
+  for(let i=0;i<3;i++){gbox(.56,.13,.05,RACK[0],.45+i*.2,RACK[2]+.32);for(const kx of [-.18,0,.18])gbox(.04,.04,.03,RACK[0]+kx,.45+i*.2,RACK[2]+.36);}
+  gbox(.56,.09,.05,RACK[0],1.08,RACK[2]+.32);
+  // Speaker runs: up the wall from the rack, along the ceiling to each speaker.
+  for(const f of faces){const pts=[[RACK[0]+.2,1.25,RACK[2]],[RACK[0]+.2,P.TRAY+.1,RACK[2]],[f[0],P.TRAY+.1,RACK[2]],[f[0],P.TRAY+.1,f[2]],[f[0],f[1]+.1,f[2]]].map(p=>new THREE.Vector3(...p));
+    const ln=new THREE.Line(k.track(new THREE.BufferGeometry().setFromPoints(pts)),ghostLine);ln.userData.noFit=true;ghost.add(ln);}
+  // The cross: two red bars over the rack.
+  const crossM=k.track(new THREE.MeshBasicMaterial({color:0xff3b2e,transparent:true,opacity:0,depthWrite:false,depthTest:false,toneMapped:false}));
+  const cross=new THREE.Group();cross.position.set(RACK[0],.7,RACK[2]+.35);G.add(cross);
+  for(const s of [-1,1]){const bar=new THREE.Mesh(k.track(new THREE.BoxGeometry(1.25,.07,.02)),crossM);bar.rotation.z=s*.78;bar.renderOrder=9;bar.userData.noFit=true;bar.userData.sensorKeep=true;cross.add(bar);}
 
   function update(t,ctx){
     const v=!!ctx.variation,sensor=!!ctx.sensor,ai=ctx.chapter>=2;
@@ -78,6 +101,11 @@ export function buildKit(k){
     const pp=room.presenter.group.position;room.presenter.pose({distance:0,weight:0,look:.05,point:presenterTalk?.3*Math.max(0,Math.sin(t*1.4)):0,pointPitch:1.1});
     ribP.draw([pp.x,1.72,pp.z],P.micFront,presenterTalk&&!sensor?1:0,t,{lift:.1,width:.025});
     spkTag.visible=!sensor&&t>ON[0]&&t<10;
+    // The amplifier rack that is not needed: in, crossed out, gone as the speakers come alive on their own cables.
+    const g=smooth(GHOST[0],GHOST[1],t)*(1-smooth(GHOST[2],GHOST[3],t))*(ai?0:1);
+    ghost.visible=g>.01;ghostFill.opacity=.1*g;ghostLine.opacity=.9*g;
+    const x=smooth(GHOST[1],GHOST[1]+.35,t)*(1-smooth(GHOST[2],GHOST[3],t))*(ai?0:1);crossM.opacity=.85*x;cross.visible=x>.01;cross.scale.setScalar(.6+.4*x);
+    ampTag.visible=!sensor&&t>GHOST[1]&&t<ON[3]+.6;
   }
   update(0,{variation:null,chapter:0,chapterId:'scene',sensor:false});
 

diff --git a/public/map-assets/lab/recipes/meeting.ceiling-sound.js b/public/map-assets/lab/recipes/meeting.ceiling-sound.js
@@ -5,14 +5,15 @@ export default {
   id:'meeting.ceiling-sound', world:'meeting', featured:true, order:3,
   locationId:'meeting.ceiling.speaker', label:'Speakers', view:'speakers', anchor:[3.68,5.2,3.16],
   title:'Every seat hears it the same',
-  benefit:'The back row hears a remote speaker as clearly as the front, and the voice comes from where the person is on screen.',
+  benefit:'The back row hears a remote speaker as clearly as the front, with no amplifier rack: each speaker takes power and audio from its one cable.',
   whyLocal:[
+    {key:'Cost',text:'No amplifier or DSP rack to buy, mount and wire: each speaker is powered by its one PoE+ cable and does its own processing.'},
     {key:'Latency',text:'Each speaker tunes its own level and timing on the device, so nothing waits on a separate audio rack.'},
   ],
-  limits:'The speakers even out level and timing; the room’s own echo and hard surfaces are still the room’s. Placing a voice left or right needs more than one speaker, and local voice lift between microphones and speakers is a future software release.',
+  limits:'Each speaker draws up to 24 W from its cable, so the PoE switch needs a PoE+ budget for every speaker. The speakers even out level and timing; the room’s own echo and hard surfaces are still the room’s. Placing a voice left or right needs more than one speaker, and local voice lift between microphones and speakers is a future software release.',
   whereItRuns:['Room Kit Pro G2','Ceiling Speaker Pro','Every seat'],
   provenance:[
-    {label:'Cisco Ceiling Speaker Pro data sheet: edge-AI processing on the device, automatic self-calibration of gain and delay, spatial playback, local presenter reinforcement, 120° coverage, PoE+, AES67',url:'https://www.cisco.com/c/en/us/products/collateral/collaboration-endpoints/collaboration-peripherals/ceiling-speaker-pro-ds.pdf',kind:'verified'},
+    {label:'Cisco Ceiling Speaker Pro data sheet: single-cable IP, PoE+ powered (24 W rated), built-in DSP, edge-AI processing on the device, automatic self-calibration of gain and delay, spatial playback, local presenter reinforcement, 120° coverage, PoE+, AES67',url:'https://www.cisco.com/c/en/us/products/collateral/collaboration-endpoints/collaboration-peripherals/ceiling-speaker-pro-ds.pdf',kind:'verified'},
     {label:'Cisco blog, WebexOne 2026: the speaker completes audio over IP; edge AI directs sound to where it is needed',url:'https://blog.webex.com/collaboration/the-next-chapter-of-connected-intelligence/',kind:'vendor'},
     {label:'UC Today: WebexOne 2026 coverage of the Ceiling Speaker Pro for medium and large rooms',url:'https://uctoday.com/webexone-2026-cisco-bets-on-ai-to-redefine-the-meeting-room',kind:'press'},
   ],
@@ -20,9 +21,9 @@ export default {
   chapters:[
     {id:'scene',at:0,label:'The meeting',caption:'A voice from the front. The back row leans in',
       say:'What: someone on the call is talking, and her voice comes out of the display at the front. By the back row it has faded, so people lean in. So what: the people furthest from the screen miss the point and stop joining in. Now what: bring the ceiling speakers in.'},
-    {id:'change',at:4,label:'Someone speaks',caption:'Four ceiling speakers, placed where the people are',
+    {id:'change',at:4,label:'Someone speaks',caption:'No amplifier rack: each speaker runs on one cable',
       camera:{angle:-.62,elevation:.42,distance:4.8,target:[0,.8,.1],portrait:{angle:-.6,elevation:.46,distance:6.8,target:[0,.85,.1]}},
-      say:'What: the four Ceiling Speaker Pros come online one by one, each on its own cable from the Room Kit Pro G2, and her voice moves to them. So what: no amplifier rack and no speaker cable runs; each speaker carries its own processing. Now what: look at the sound itself.'},
+      say:'What: the old way flashes up in red: an amplifier rack in the corner and a speaker cable to every speaker. It is crossed out, and the four Ceiling Speaker Pros come alive one by one, each on its own network cable from the Room Kit Pro G2, which carries both power and audio. So what: no amplifiers and no DSP rack to buy or wire, however many speakers the room needs; another speaker is another cable. Now what: look at the sound itself.'},
     {id:'aiView',at:10,label:'Through the device',caption:'Each speaker sets its own level and timing',sensor:'sound-view',
       overlay:{anchor:'backRow',label:'Back row · in time, in level',state:'noticed'},
       say:'What: this is the sound, slowed right down. Each speaker covers the seats beneath it; the front pair start first and the rear pair a moment later, so the sound arrives at the back row together. Her voice is louder on the left, where her picture is. So what: the same voice, at the same level, in every seat. Now what: back to the room.'},

diff --git a/public/map-assets/meeting-scene.js b/public/map-assets/meeting-scene.js
@@ -149,8 +149,8 @@ export function createMeetingScene() {
   world.hotspots = [
     {id: 'camera', label: 'Room Vision PTZ', caption: 'Room Vision PTZ: head detection on the camera; the room engine picks the shot.', view: 'camera', anchor: pin(P.camRear, 0.9)},
     {id: 'mic', label: 'Ceiling Microphone Pro', caption: 'Ceiling Microphone Pro: 64 microphones, 8 AI adaptive beams, noise removed on the device.', view: 'mic', anchor: pin(P.micFront, 0.9)},
-    {id: 'speakers', label: 'Ceiling Speaker Pro', caption: 'Ceiling Speaker Pro: edge AI sets its own level and timing, so every seat hears the same.', view: 'speakers', anchor: pin(P.spk[3], 0.7)},
-    {id: 'engine', label: 'Room engine', caption: 'One cable each into the Room Kit Pro G2: power, control and audio over IP on one network.', view: 'engine', anchor: pin([1.5, 0.75, -3.95], 0.2)},
+    {id: 'speakers', label: 'Ceiling Speaker Pro', caption: 'Ceiling Speaker Pro: no amplifier rack. Power and audio on one cable; it tunes its own level and timing.', view: 'speakers', anchor: pin(P.spk[3], 0.7)},
+    {id: 'engine', label: 'Room engine', caption: 'One cable each into the Room Kit Pro G2: power, control and audio over IP. No amplifier or DSP rack.', view: 'engine', anchor: pin([1.5, 0.75, -3.95], 0.2)},
   ];
   world.onHotspot = spot => {
     // The room engine pin runs the heartbeat at once so the eight cables light while the camera arrives.

diff --git a/lib/ai-lab/content.ts b/lib/ai-lab/content.ts
@@ -201,8 +201,8 @@ export const LAB_WORLDS: Record<LabIndustry, { name: string; eyebrow: string; fr
     eyebrow: 'MEETING ROOMS',
     frame: 'Meeting room',
     alt: '3D meeting room miniature with a presenter, a boardroom table, two audience rows and Cisco room devices hanging from an open cable tray',
-    tile: 'A room that sees who is talking, hears only the voices and sounds the same in every seat: three Cisco Pro devices, one cable each.',
-    tags: ['3D exploration', 'Camera, microphone + speaker', 'One cable each'],
+    tile: 'A room that sees who is talking, hears only the voices and sounds the same in every seat: three Cisco Pro devices, one cable each, no amplifier rack.',
+    tags: ['3D exploration', 'Camera, microphone + speaker', 'One cable each, no amplifier'],
     bareEyebrow: true,
     intro: 'Three Cisco Pro devices, each with AI inside: select one to see what it does for the people on the call.',
   },
